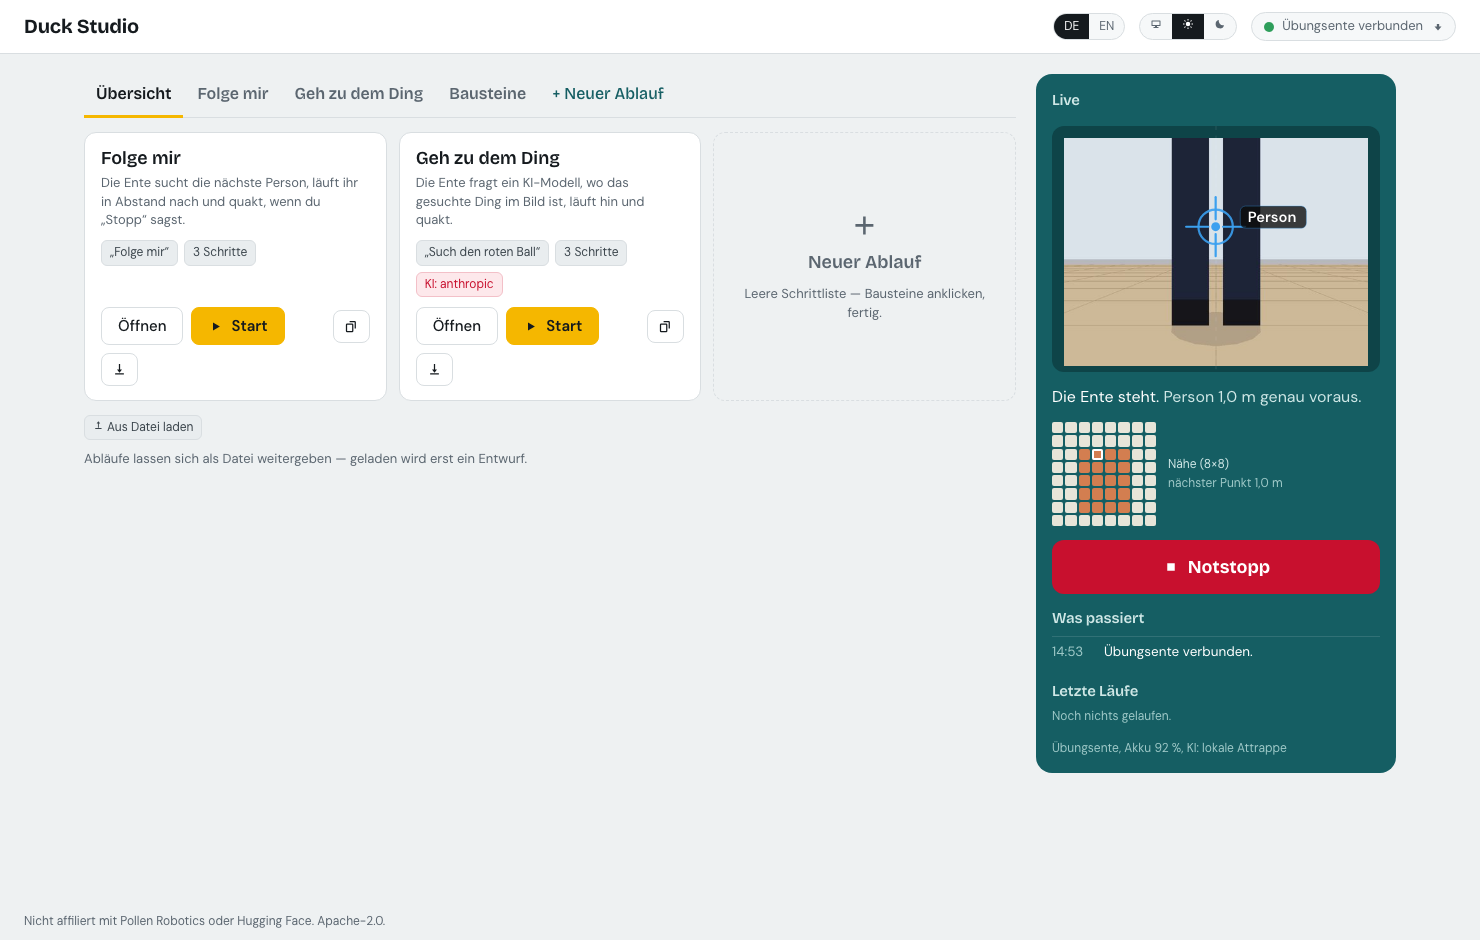
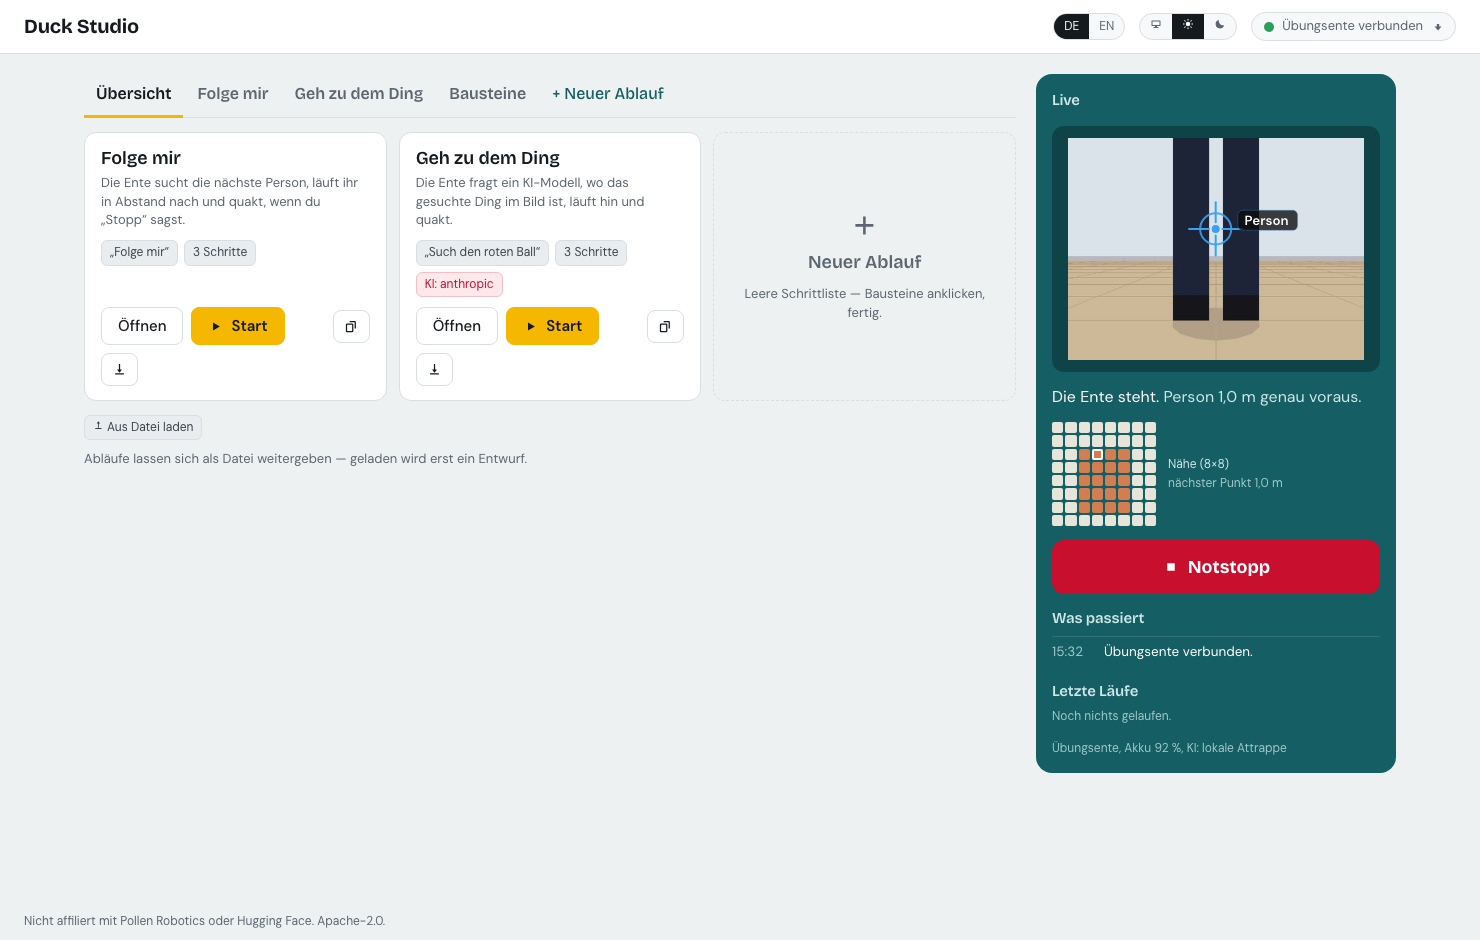
"Die Ente tritt auf der Stelle": say when walking gets the duck nowhere
In duck-sim the walking policy steps in place (microduck_rl#46): robotd applies
robot.move (vx 0.08, vyaw -0.245), and odometry does not change in the third
decimal for a minute. The Studio said "Die Ente läuft", the picture never
changed, and it looked frozen. The executor now compares, in 3 s windows, the
distance and turn the commands should have produced with odometry
(executor/progress.py); below 30 % of both it logs a warning once, reports
`stuck` in its status, and the Live panel says "Die Ente tritt auf der
Stelle." A hint, the step goes on; getting going again is said once too.

Found on the way: in a short window the camera frame is capped by max-height,
the picture overflowed and was cut off while the overlay was scaled to the box,
and the overlay ignored the 12 px padding, so the person marker sat beside the
magenta marker. Picture and overlay now share one box, both "contain".

upstream-notes: on 0.15.0 the sim duck does not turn either.

Changed region(s): [[0.7149, 0.3085, 0.9324, 0.4011], [0.8081, 0.216, 0.9324, 0.3085], [0.7149, 0.2468, 0.8081, 0.3085]]

diff --git a/studio/src/styles.css b/studio/src/styles.css
@@ -395,8 +395,11 @@ details.file pre { background: var(--surface); border: 1px solid var(--line); bo
 .live { background: var(--stage); color: var(--stage-ink); border-radius: var(--r-lg); padding: 16px; align-self: start; display: flex; flex-direction: column; gap: 14px; position: sticky; top: 16px; }
 .live h2 { font-size: 15px; color: var(--stage-soft); font-weight: 600; }
 .live .camera { position: relative; aspect-ratio: var(--camera-ratio, 4 / 3); max-height: 46vh; background: var(--stage-deep); border-radius: 12px; overflow: hidden; display: grid; place-items: center; color: var(--stage-muted); font-size: var(--t-sm); text-align: center; padding: 12px; }
-.live .camera img { width: 100%; height: 100%; object-fit: contain; display: block; }
-.live .camera .overlay { position: absolute; inset: 0; width: 100%; height: 100%; pointer-events: none; }
+/* Picture and overlay share one box, both "contain" (the overlay's viewBox is "meet"): a marker
+   stays on the thing when max-height squeezes the frame or the padding shrinks it. */
+.live .camera img, .live .camera .overlay { position: absolute; inset: 12px; width: calc(100% - 24px); height: calc(100% - 24px); }
+.live .camera img { object-fit: contain; display: block; }
+.live .camera .overlay { pointer-events: none; }
 .live .camera .overlay .axis { stroke: rgba(255, 255, 255, 0.16); stroke-width: 1; stroke-dasharray: 6 8; }
 .live .camera .overlay .mark line { stroke: currentColor; stroke-linecap: round; }
 .live .camera .overlay .mark .halo { fill: none; stroke: currentColor; opacity: 0.9; }

diff --git a/studio/src/live/LivePane.tsx b/studio/src/live/LivePane.tsx
@@ -24,7 +24,7 @@ export function LivePane({ health, offline, state, executor, runs, events, onSto
       <h2>{t("stage.title")}</h2>
       <CameraView connected={connected} executor={executor} />
       <p className="sentence">
-        {stateSentence(offline, connected, state)} <span className="soft">{connected ? sightingSentence(executor) : ""}</span>
+        {stateSentence(offline, connected, state, executor?.stuck ?? false)} <span className="soft">{connected ? sightingSentence(executor) : ""}</span>
       </p>
       {executor?.vlm?.question && (
         <p className={`vlmline${executor.vlm.sends_frames ? " sending" : ""}`}>
@@ -82,12 +82,14 @@ export function LivePane({ health, offline, state, executor, runs, events, onSto
   );
 }
 
-function stateSentence(offline: boolean, connected: boolean, state: RobotState | null): string {
+function stateSentence(offline: boolean, connected: boolean, state: RobotState | null, stuck: boolean): string {
   if (offline) return t("live.doing.offline");
   if (!connected) return t("stage.state.disconnected");
   if (!state) return t("stage.state.unknown");
   if (state.flags.fallen) return t("stage.state.fallen");
   if (state.flags.sitting) return t("stage.state.sitting");
+  // Told to walk, getting nowhere (runtime: executor/progress.py) — not „läuft“.
+  if (stuck) return t("stage.state.stuck");
   if (state.flags.moving) return t("stage.state.moving");
   return t("stage.state.standing");
 }

diff --git a/studio/src/schemas/api.ts b/studio/src/schemas/api.ts
@@ -99,6 +99,7 @@ export const ExecutorStatus = z.object({
   intents_sent: z.number(),
   /** How many runs the runtime has recorded — a new number means the run list changed. */
   runs_recorded: z.number().default(0),
+  stuck: z.boolean().default(false),
   camera: z.boolean().nullable(),
   person: PersonDetection.nullable(),
   target: TargetSighting.nullable(),

diff --git a/runtime/duckstudio/executor/progress.py b/runtime/duckstudio/executor/progress.py
@@ -1,0 +1,91 @@
+"""Is the duck getting anywhere? Commanded motion against what odometry reports.
+
+In duck-sim the walking policies step in place (`microduck_rl#46`): robotd accepts and applies
+`robot.move`, the policy steps, and the body stays where it is. The Studio said „Die Ente
+läuft" and nothing on screen changed, which looked like a frozen Studio. A real duck against a
+wall or on a rug would look the same. So the executor watches in windows of `WINDOW_S`: when
+the commands of a window should have carried the duck `MIN_EXPECTED_M` or turned it
+`MIN_EXPECTED_RAD`, and it covered less than `PROGRESS_SHARE` of either, it is stuck.
+
+Only a hint: nothing here stops or fails a step. Being stuck is said once, and getting going
+again is said once.
+"""
+
+from __future__ import annotations
+
+import math
+from dataclasses import dataclass
+from typing import Literal
+
+from ..backends.base import Pose2D
+
+WINDOW_S = 3.0
+MIN_EXPECTED_M = 0.06
+MIN_EXPECTED_RAD = 0.3
+PROGRESS_SHARE = 0.3
+
+Change = Literal["stuck", "moving"]
+
+
+@dataclass
+class _Window:
+    t: float
+    pose: Pose2D
+    last_t: float
+    expected_m: float = 0.0
+    expected_rad: float = 0.0
+
+
+class ProgressWatch:
+    def __init__(self) -> None:
+        self.stuck = False
+        self._window: _Window | None = None
+
+    def reset(self) -> None:
+        self.stuck = False
+        self._window = None
+
+    def observe(
+        self, now: float, pose: Pose2D | None, command: dict[str, float] | None
+    ) -> Change | None:
+        """One tick. `command` is the movement being sent right now (vx, vy, vyaw), or None."""
+        if pose is None or not command or not _moving(command):
+            # Standing still on purpose (or nothing to measure): no verdict, and no stale one.
+            self._window = None
+            if self.stuck:
+                self.stuck = False
+            return None
+        w = self._window
+        if w is None:
+            self._window = _Window(t=now, pose=pose, last_t=now)
+            return None
+        dt = max(0.0, now - w.last_t)
+        w.last_t = now
+        w.expected_m += math.hypot(command.get("vx", 0.0), command.get("vy", 0.0)) * dt
+        w.expected_rad += abs(command.get("vyaw", 0.0)) * dt
+        if now - w.t < WINDOW_S:
+            return None
+        moved = math.hypot(pose.x - w.pose.x, pose.y - w.pose.y)
+        turned = abs(_wrap(pose.heading - w.pose.heading))
+        judged = w.expected_m >= MIN_EXPECTED_M or w.expected_rad >= MIN_EXPECTED_RAD
+        progress = (w.expected_m >= MIN_EXPECTED_M and moved >= PROGRESS_SHARE * w.expected_m) or (
+            w.expected_rad >= MIN_EXPECTED_RAD and turned >= PROGRESS_SHARE * w.expected_rad
+        )
+        self._window = _Window(t=now, pose=pose, last_t=now)
+        if not judged:
+            return None
+        if not progress and not self.stuck:
+            self.stuck = True
+            return "stuck"
+        if progress and self.stuck:
+            self.stuck = False
+            return "moving"
+        return None
+
+
+def _moving(command: dict[str, float]) -> bool:
+    return any(abs(v) > 1e-6 for v in command.values())
+
+
+def _wrap(a: float) -> float:
+    return (a + math.pi) % (2 * math.pi) - math.pi

diff --git a/runtime/tests/executor/test_progress.py b/runtime/tests/executor/test_progress.py
@@ -1,0 +1,79 @@
+"""The duck is told to walk and does not get anywhere (duck-sim, microduck_rl#46): say so."""
+
+from __future__ import annotations
+
+from duckstudio.backends.base import Pose2D
+from duckstudio.executor.progress import WINDOW_S, ProgressWatch
+
+from .conftest import Harness
+
+HERE = Pose2D(x=0.0, y=0.0, heading=0.0)
+WALK = {"vx": 0.08, "vy": 0.0, "vyaw": 0.0}
+
+
+def run(watch: ProgressWatch, poses: list[Pose2D], command: dict[str, float] | None, dt=0.1):
+    changes = []
+    for i, pose in enumerate(poses):
+        change = watch.observe(i * dt, pose, command)
+        if change:
+            changes.append((round(i * dt, 1), change))
+    return changes
+
+
+def test_walking_on_the_spot_is_stuck_once() -> None:
+    watch = ProgressWatch()
+    changes = run(watch, [HERE] * 100, WALK)  # 10 s, not a millimetre
+    assert changes == [(WINDOW_S, "stuck")]
+    assert watch.stuck
+
+
+def test_a_duck_that_walks_is_not_stuck() -> None:
+    poses = [Pose2D(x=0.08 * 0.1 * i, y=0.0, heading=0.0) for i in range(100)]
+    assert run(ProgressWatch(), poses, WALK) == []
+
+
+def test_turning_counts_as_progress() -> None:
+    poses = [Pose2D(x=0.0, y=0.0, heading=0.5 * 0.1 * i) for i in range(100)]
+    assert run(ProgressWatch(), poses, {"vx": 0.0, "vy": 0.0, "vyaw": 0.5}) == []
+
+
+def test_getting_going_again_is_said() -> None:
+    watch = ProgressWatch()
+    stuck = [HERE] * 40
+    going = [Pose2D(x=0.08 * 0.1 * i, y=0.0, heading=0.0) for i in range(40)]
+    assert [c for _, c in run(watch, stuck + going, WALK)] == ["stuck", "moving"]
+
+
+def test_standing_still_on_purpose_is_no_verdict() -> None:
+    watch = ProgressWatch()
+    assert run(watch, [HERE] * 100, None) == []
+    assert run(watch, [HERE] * 100, {"vx": 0.0, "vy": 0.0, "vyaw": 0.0}) == []
+    # a crawl too slow to judge in one window says nothing either
+    assert run(watch, [HERE] * 100, {"vx": 0.01, "vy": 0.0, "vyaw": 0.0}) == []
+
+
+def test_no_odometry_no_verdict() -> None:
+    assert run(ProgressWatch(), [None] * 100, WALK) == []  # type: ignore[list-item]
+
+
+async def test_follow_me_says_the_duck_is_stepping_in_place(h: Harness) -> None:
+    h.see_person(distance=2.0)
+    await h.start()
+    for _ in range(50):  # 5 s of walking that goes nowhere
+        h.mock.pose = HERE
+        h.see_person(distance=2.0)
+        await h.tick()
+    assert "progress.stuck" in h.kinds()
+    assert any("tritt auf der Stelle" in t for t in h.texts())
+    assert h.executor.status()["stuck"] is True
+    assert h.executor.state == "running", "a hint, not a failure"
+
+
+async def test_follow_me_on_a_walking_duck_says_nothing(h: Harness) -> None:
+    h.see_person(distance=2.0)
+    await h.start()
+    for _ in range(50):
+        h.see_person(distance=2.0)
+        await h.tick()
+    assert "progress.stuck" not in h.kinds()
+    assert h.executor.status()["stuck"] is False

diff --git a/runtime/duckstudio/executor/tree.py b/runtime/duckstudio/executor/tree.py
@@ -49,6 +49,7 @@ from ..events import EventBus
 from ..perception.base import Sighting
 from ..skills import SkillManifest, SkillRegistry
 from .conditions import Snapshot, VlmRequest, evaluate
+from .progress import ProgressWatch
 from .safety import GateDecision, IntentGate
 from .watchdog import Watchdog
 
@@ -197,6 +198,8 @@ class Executor:
         self._preempt_source: str | None = None
         self._driving_this_tick = False
         self._task: asyncio.Task[None] | None = None
+        self.progress = ProgressWatch()
+        self._movement: tuple[float, dict[str, float]] | None = None  # (sent at, params)
 
     # -- control -------------------------------------------------------------------------
 
@@ -215,6 +218,8 @@ class Executor:
         self._started_at = self.now()
         self._started_mono = self.clock()
         self._preempt_source = None
+        self.progress.reset()
+        self._movement = None
         self.snapshot.speech.clear()
         self._clear_vlm_request()
         self.snapshot.target = self.snapshot.vlm = None
@@ -298,6 +303,7 @@ class Executor:
             "ticks": self.counters.ticks,
             "intents_sent": self.counters.intents_sent,
             "runs_recorded": self.runs_recorded,
+            "stuck": self.state == "running" and self.progress.stuck,
         }
 
     async def close(self) -> None:
@@ -358,6 +364,22 @@ class Executor:
         finally:
             snap.speech.clear()
             self.watchdog.pet(driving=self._driving_this_tick)
+            self._watch_progress()
+
+    def _watch_progress(self) -> None:
+        """Commanded motion against odometry (progress.py): say so when the duck is stuck."""
+        snap = self.snapshot
+        command = None
+        if self.state == "running" and self._movement is not None:
+            sent_at, params = self._movement
+            if snap.now - sent_at <= 0.5:  # still being sent; a step that ended sends none
+                command = params
+        pose = snap.state.pose if snap.state is not None else None
+        change = self.progress.observe(snap.now, pose, command)
+        if change == "stuck":
+            self.bus.emit("progress.stuck", *texts.stuck(), level="warn")
+        elif change == "moving":
+            self.bus.emit("progress.moving", *texts.moving_again())
 
     # -- transitions -----------------------------------------------------------------------
 
@@ -713,6 +735,7 @@ class Executor:
                 self.counters.intents_sent += 1
                 if run.skill.is_movement:
                     self._driving_this_tick = True
+                    self._movement = (snap.now, dict(decision.params))
         except BehaviorRefused as e:
             run.end_reason = texts.duck_refused(str(e))
             self.reason = run.end_reason

diff --git a/runtime/duckstudio/texts.py b/runtime/duckstudio/texts.py
@@ -481,6 +481,17 @@ def intent_refused(skill: Text, reason: str, detail: Bilingual = ("", "")) -> Bi
     )
 
 
+def stuck() -> Bilingual:
+    return (
+        "Die Ente tritt auf der Stelle: Befehle kommen an, aber sie kommt nicht voran.",
+        "The duck is stepping in place: the commands arrive, but it is not getting anywhere.",
+    )
+
+
+def moving_again() -> Bilingual:
+    return "Die Ente kommt wieder voran.", "The duck is moving again."
+
+
 def battery_percent(level: float) -> Bilingual:
     percent = f"{round(level * 100)} %"
     return f"Akku {percent}", f"battery {percent}"

diff --git a/runtime/tests/executor/test_follow_me.py b/runtime/tests/executor/test_follow_me.py
@@ -208,6 +208,7 @@ async def test_status_is_reportable(h: Harness) -> None:
         "ticks": 2,
         "intents_sent": s["intents_sent"],
         "runs_recorded": 0,
+        "stuck": False,
     }
     assert math.isclose(s["intents_sent"], 1)
 

diff --git a/docs/concepts/executor.md b/docs/concepts/executor.md
@@ -72,6 +72,16 @@ Running: the text feeds `until: speech` conditions for one tick. A phrase matche
 appear in order, as whole words (`phrase_in`): „Okay, folge mir bitte“ starts „Folge mir“,
 „Stoppuhr“ is not „Stopp“. The duck's own microphone will be a second source for the same call.
 
+## Is the duck getting anywhere?
+
+`executor/progress.py` compares, in windows of 3 s, how far the movement commands should have
+carried or turned the duck with what odometry reports. When a window should have covered at
+least 6 cm or 0.3 rad and the duck managed less than 30 % of both, the log says „Die Ente tritt
+auf der Stelle: Befehle kommen an, aber sie kommt nicht voran.“ once, the status carries
+`stuck: true`, and the Live panel says „Die Ente tritt auf der Stelle.“ instead of „läuft“. A
+hint only — the step goes on. The case it was built for is duck-sim (`microduck_rl#46`); a real
+duck against a wall looks the same.
+
 ## What a run leaves behind
 
 A run nobody can look back at is hard to trust, so the executor keeps the last ten

diff --git a/docs/upstream-notes.md b/docs/upstream-notes.md
@@ -59,7 +59,10 @@ docs, then run live.
   daemon_version: "0.15.0"}`; the contract suite passes against it (`DUCKSTUDIO_SIM=1 pytest
   tests/backends`: 101 passed, 1 skipped). `GET :8080/frame` still a 360×640 PNG.
 - `microduck_rl#46` (walking policies step in place): still open, no maintainer answer, nothing
-  new on `develop` — the simulated duck still does not walk.
+  new on `develop` — the simulated duck still does not walk. **It does not turn either**
+  (2026-09-24, follow-me for 60 s): `robot.state` shows `move.applied ≈ [0.08, 0, −0.245]`,
+  `policy: walk`, not fallen, and `odom` stays at x 0.027 m, yaw 0.518 rad to the third
+  decimal. The executor now says so (`executor/progress.py`: „Die Ente tritt auf der Stelle“).
 - Start pose, five starts on 0.15.0: the duck settles at a heading of +18…+22° (IMU yaw, odom at
   the origin), so the marker 1.5 m "ahead" shows at −20…−22°, on the right of the frame — the
   same offset follow-me steered against on 0.14.4 (`vyaw ≈ −0.23`). Once of three `SIT` starts
